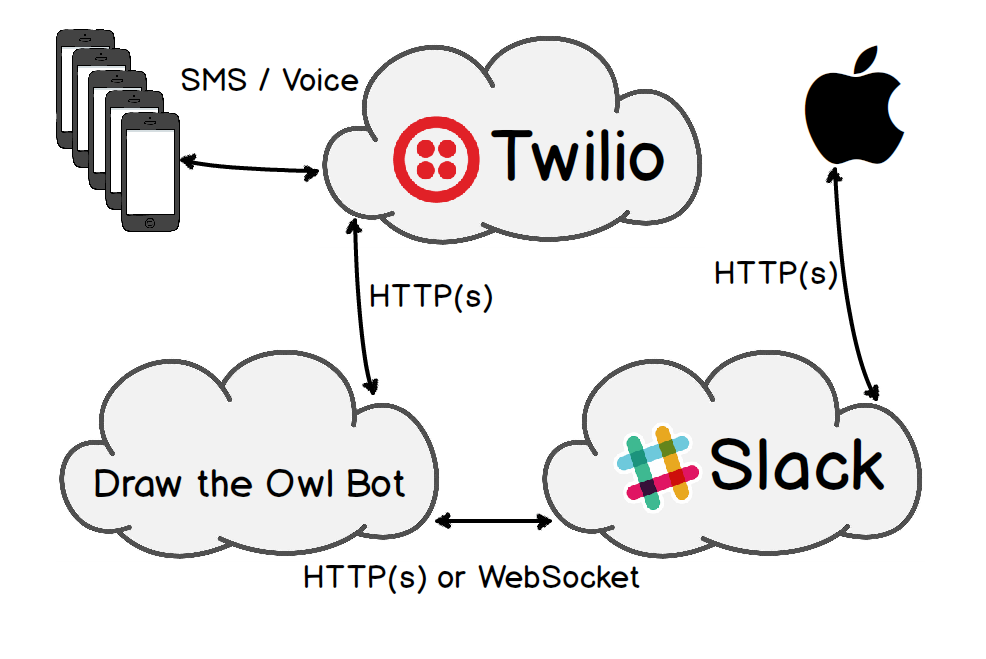
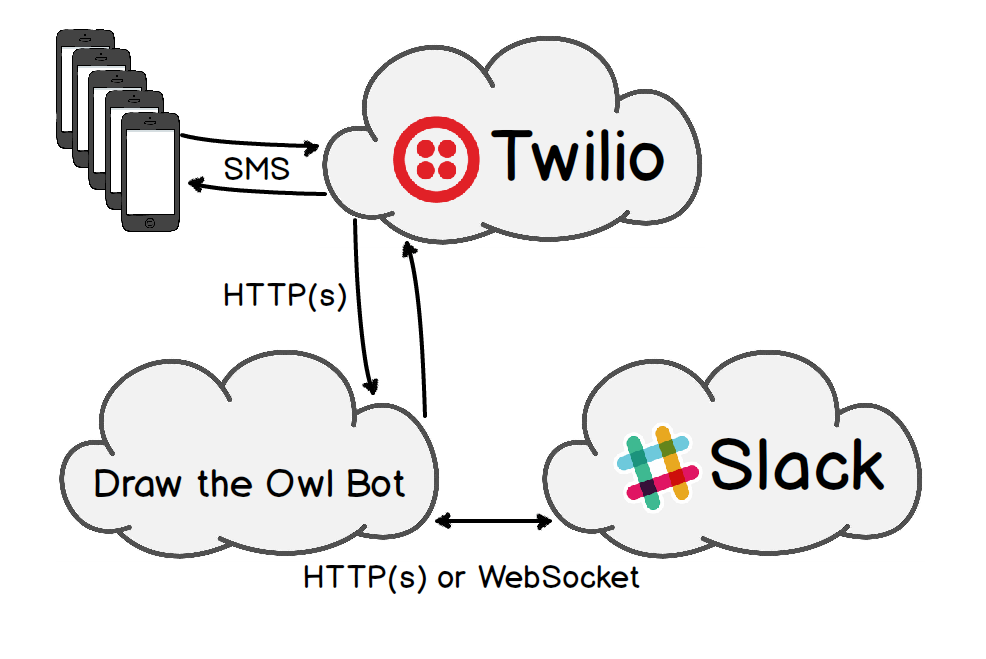
work on talk

diff --git a/presentations/2016-r2-d2-skynet-bots.html b/presentations/2016-r2-d2-skynet-bots.html
@@ -128,7 +128,7 @@
                 <section>
                     <h2 style="font-size: 2.3em;">Launch: Phone Calls in Slack</h2>
                     <ul class="bigger" style="font-size: 1.15em;">
-                        <li class="fragment">Open source Bot code</li>
+                        <li class="fragment">Open source bot code</li>
                         <li class="fragment">Twilio /blog post</li>
                         <li class="fragment">@twilio tweet</li>
                     </ul>
@@ -183,6 +183,9 @@ rtm.start
 
                 <section style="text-align: center;">
                     <h1>Let's launch!</h1>
+                </section>
+                
+                <section data-state="demo-architecture">
                 </section>
 
                 <section>

diff --git a/source/static-html/presentations/2016-r2-d2-skynet-bots.html b/source/static-html/presentations/2016-r2-d2-skynet-bots.html
@@ -128,7 +128,7 @@
                 <section>
                     <h2 style="font-size: 2.3em;">Launch: Phone Calls in Slack</h2>
                     <ul class="bigger" style="font-size: 1.15em;">
-                        <li class="fragment">Open source Bot code</li>
+                        <li class="fragment">Open source bot code</li>
                         <li class="fragment">Twilio /blog post</li>
                         <li class="fragment">@twilio tweet</li>
                     </ul>
@@ -183,6 +183,9 @@ rtm.start
 
                 <section style="text-align: center;">
                     <h1>Let's launch!</h1>
+                </section>
+                
+                <section data-state="demo-architecture">
                 </section>
 
                 <section>

diff --git a/source/static/css/reveal/theme/signal-2016.css b/source/static/css/reveal/theme/signal-2016.css
@@ -361,3 +361,7 @@ h1.light-bg {color: #222;}
   background-size: cover;
 }
 
+.demo-architecture .reveal .state-background {
+  background: url(/source/static/img/160428-r2d2-skynet/slides/demo-architecture.jpg);
+  background-size: cover;
+}
